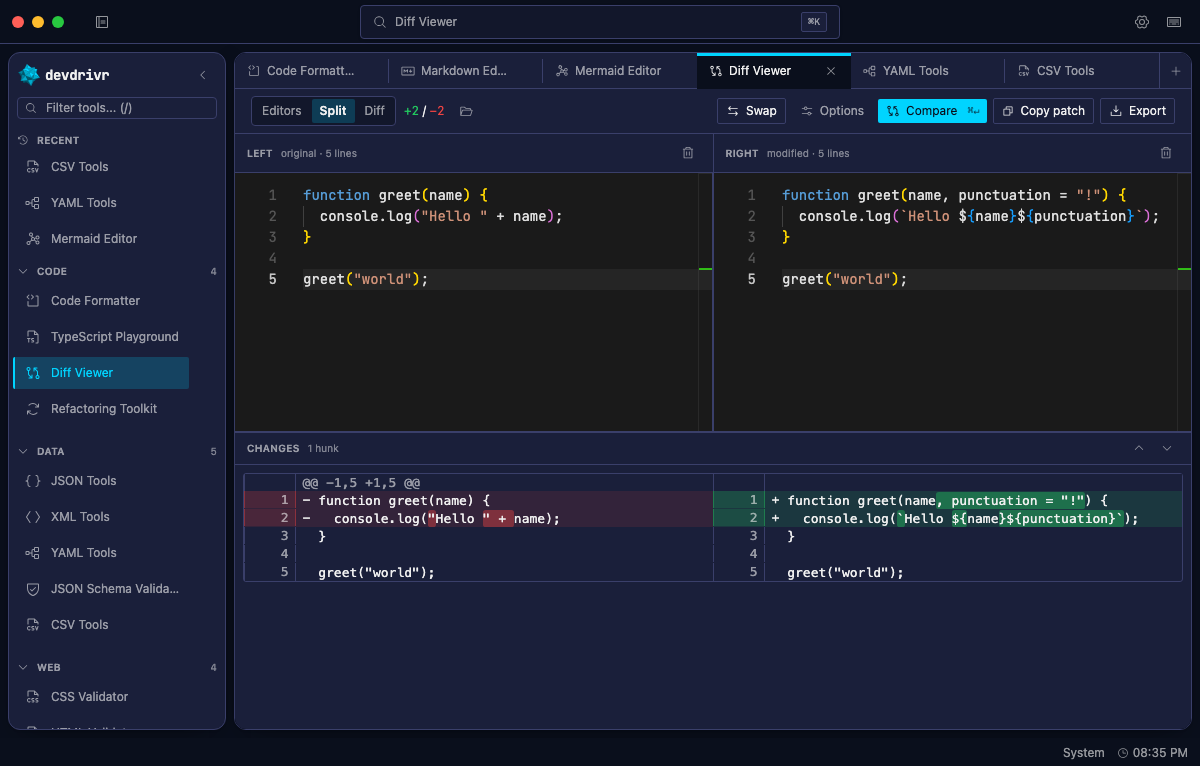
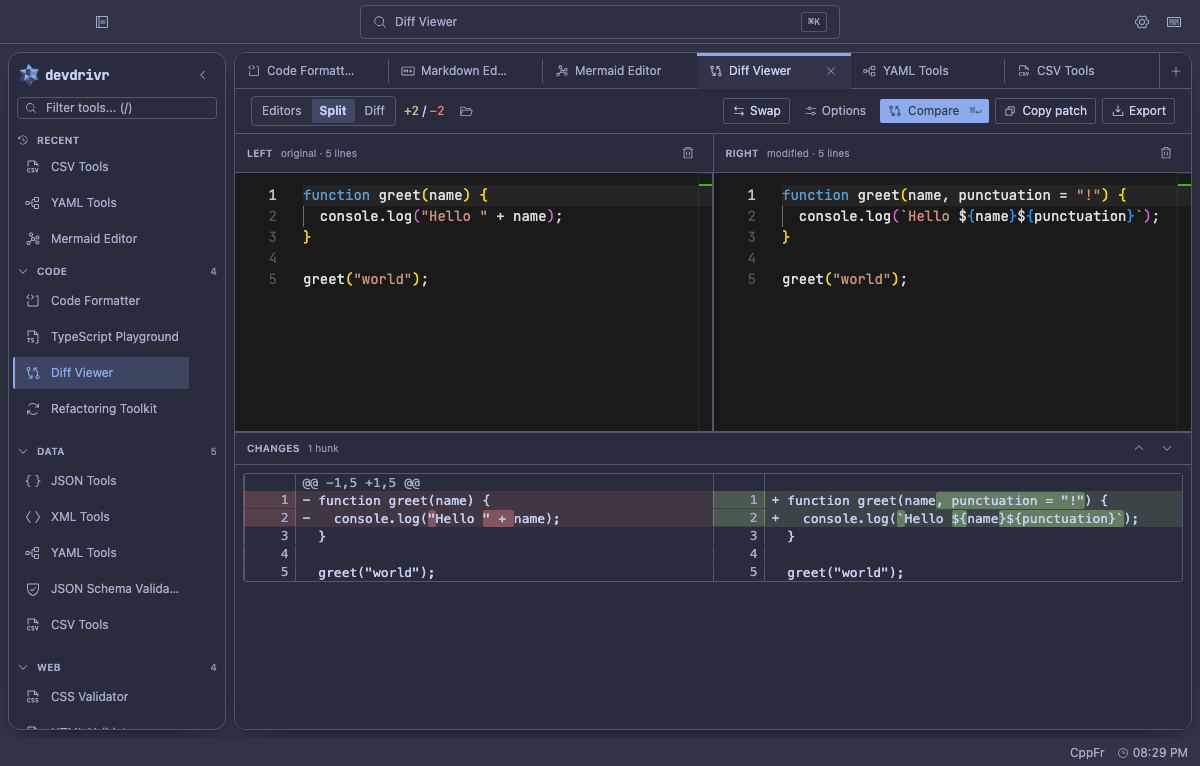
feat(devdrivr): change the system theme defaults and shoot the README in Frappé
`system` now resolves to Tomorrow Night in the dark and Tokyo Night Light in the light. Both sit
behind `SYSTEM_DARK_THEME` and `SYSTEM_LIGHT_THEME`, which the system swatch reads as well, so the
preview cannot disagree with what the picker applies.

The class on `<html>` in index.html matches the dark default. That class is what the window paints
before it reads the theme cache, so a disagreement shows as a flash on a first launch. A test
reads index.html and asserts the two agree.

Retake the README screenshots in Catppuccin Frappé. The capture script picks the theme through
Settings on every page load, because the browser harness stubs the database and a picked theme
lasts one session. `SCREENSHOT_THEME` overrides the name.

diff --git a/src/lib/__tests__/theme.test.ts b/src/lib/__tests__/theme.test.ts
@@ -1,9 +1,13 @@
+import { readFileSync } from 'node:fs'
 import { afterEach, beforeEach, describe, expect, it, vi } from 'vitest'
 import {
   ALL_THEMES,
+  SYSTEM_DARK_THEME,
+  SYSTEM_LIGHT_THEME,
   THEME_TRANSITION_CLASS,
   THEME_TRANSITION_MS,
   getEffectiveTheme,
+  isLightEffectiveTheme,
   setThemeClass,
 } from '../theme'
 
@@ -16,20 +20,34 @@ describe('getEffectiveTheme', () => {
     expect(getEffectiveTheme('soft-focus')).toBe('soft-focus')
   })
 
-  it('returns midnight when theme is system and prefers dark', () => {
+  it('returns the dark default when theme is system and prefers dark', () => {
     vi.stubGlobal('window', {
       matchMedia: vi.fn().mockReturnValue({ matches: true }),
     })
-    expect(getEffectiveTheme('system')).toBe('midnight')
+    expect(getEffectiveTheme('system')).toBe('tomorrow-night')
     vi.unstubAllGlobals()
   })
 
-  it('returns soft-focus when theme is system and prefers light', () => {
+  it('returns the light default when theme is system and prefers light', () => {
     vi.stubGlobal('window', {
       matchMedia: vi.fn().mockReturnValue({ matches: false }),
     })
-    expect(getEffectiveTheme('system')).toBe('soft-focus')
+    expect(getEffectiveTheme('system')).toBe('tokyo-night-light')
     vi.unstubAllGlobals()
+  })
+
+  // The window paints the class on <html> before it reads the theme cache. A disagreement shows
+  // as a flash on a first launch, which no test that reads only the module would catch.
+  it('matches the class index.html paints first', () => {
+    const html = readFileSync(new URL('../../../index.html', import.meta.url), 'utf8')
+    expect(html).toContain(`<html lang="en" class="${SYSTEM_DARK_THEME}">`)
+  })
+
+  it('resolves both defaults to real themes', () => {
+    expect(ALL_THEMES).toContain(SYSTEM_DARK_THEME)
+    expect(ALL_THEMES).toContain(SYSTEM_LIGHT_THEME)
+    expect(isLightEffectiveTheme(SYSTEM_LIGHT_THEME)).toBe(true)
+    expect(isLightEffectiveTheme(SYSTEM_DARK_THEME)).toBe(false)
   })
 })
 

diff --git a/src/components/shell/ThemePicker.tsx b/src/components/shell/ThemePicker.tsx
@@ -2,7 +2,14 @@ import { useRef, useState } from 'react'
 import { CheckIcon, MonitorIcon } from '@phosphor-icons/react'
 import type { Theme } from '@/types/models'
 import { SectionLabel } from '@/components/shared/SectionLabel'
-import { ALL_THEMES, THEME_META, getEffectiveTheme, isLightEffectiveTheme } from '@/lib/theme'
+import {
+  ALL_THEMES,
+  SYSTEM_DARK_THEME,
+  SYSTEM_LIGHT_THEME,
+  THEME_META,
+  getEffectiveTheme,
+  isLightEffectiveTheme,
+} from '@/lib/theme'
 import type { EffectiveTheme } from '@/lib/theme'
 
 const COLS = 3
@@ -110,8 +117,9 @@ function SystemSwatch() {
       aria-hidden="true"
       className="relative flex h-12 overflow-hidden rounded-[var(--radius-sm)] border border-[var(--color-border)]"
     >
-      <Swatch effective="midnight" className="h-full w-1/2 rounded-none border-0" />
-      <Swatch effective="soft-focus" className="h-full w-1/2 rounded-none border-0" />
+      {/* The swatch previews what `system` resolves to, so it reads the same two constants. */}
+      <Swatch effective={SYSTEM_DARK_THEME} className="h-full w-1/2 rounded-none border-0" />
+      <Swatch effective={SYSTEM_LIGHT_THEME} className="h-full w-1/2 rounded-none border-0" />
       <span className="absolute inset-0 flex items-center justify-center bg-[var(--color-scrim)]">
         <MonitorIcon size={12} weight="bold" className="text-[var(--color-text)] drop-shadow" />
       </span>

diff --git a/index.html b/index.html
@@ -1,5 +1,5 @@
 <!doctype html>
-<html lang="en" class="midnight">
+<html lang="en" class="tomorrow-night">
   <head>
     <meta charset="UTF-8" />
     <link rel="icon" type="image/svg+xml" href="/dodecastar.svg" />
@@ -16,8 +16,8 @@
       // Shape-checked rather than checked against a list of theme names: this
       // script cannot import ALL_THEMES, and the hardcoded list it used to
       // carry had gone stale at six entries. Every theme added since fell
-      // through to the `midnight` class in <html>, so launching in any of them
-      // painted Midnight first and then snapped to the real theme once React
+      // through to the class on <html>, so launching in any of them painted
+      // the default first and then snapped to the real theme once React
       // hydrated — the exact flash this script exists to prevent. Only this
       // app writes the key, and the value only ever reaches a class attribute.
       try {

diff --git a/src/lib/theme.ts b/src/lib/theme.ts
@@ -88,9 +88,21 @@ export const THEME_META: Record<EffectiveTheme, { shortLabel: string; fullLabel:
   dodecastar: { shortLabel: 'Dodec', fullLabel: 'Dodecastar' },
 }
 
+/**
+ * The two themes `system` resolves to.
+ *
+ * Keep `SYSTEM_DARK_THEME` and the `class` on `<html>` in index.html the same. That class is what
+ * the window paints before the theme cache is read, so a disagreement shows as a flash on a first
+ * launch.
+ */
+export const SYSTEM_DARK_THEME: EffectiveTheme = 'tomorrow-night'
+export const SYSTEM_LIGHT_THEME: EffectiveTheme = 'tokyo-night-light'
+
 export function getEffectiveTheme(theme: Theme): EffectiveTheme {
   if (theme === 'system') {
-    return window.matchMedia('(prefers-color-scheme: dark)').matches ? 'midnight' : 'soft-focus'
+    return window.matchMedia('(prefers-color-scheme: dark)').matches
+      ? SYSTEM_DARK_THEME
+      : SYSTEM_LIGHT_THEME
   }
   return theme
 }
